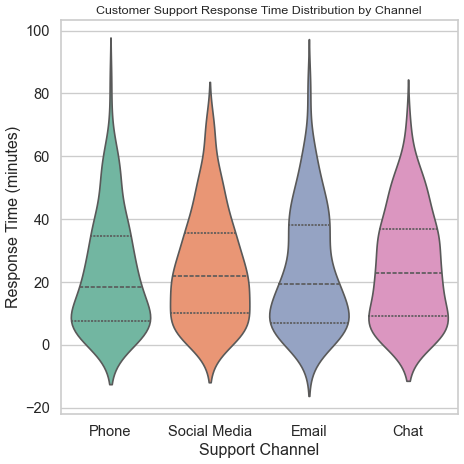
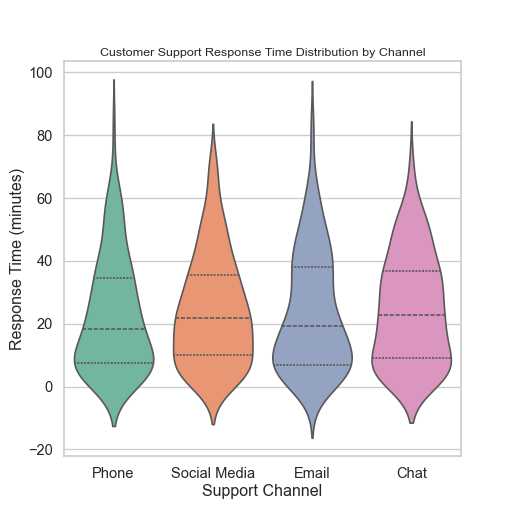
new chart

Changed region(s): [[0.0, 0.0, 0.9957, 0.9957]]

diff --git a/chart.py b/chart.py
@@ -39,5 +39,5 @@ plt.xlabel("Support Channel")
 plt.ylabel("Response Time (minutes)")
 
 # 6. Save as PNG with 512x512 resolution
-plt.savefig("chart.png", dpi=64, bbox_inches="tight")
+plt.savefig("chart.png", dpi=64)
 plt.close()
